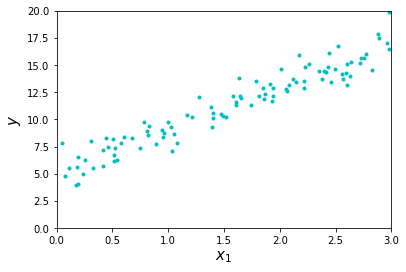
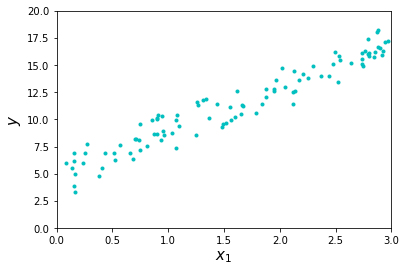
normal eq imp

diff --git a/_posts/2019-01-18-convergence.md b/_posts/2019-01-18-convergence.md
@@ -21,7 +21,7 @@ $$\begin{equation}
 Y = f(X) + \epsilon
 \end{equation}$$
 
-In this equation, $$f$$ is our model and $$\epsilon$$ represents the variation of $$y$$ not captured by our model. Linear models associate a linear shape for $$f$$. Here is the general form of a linear model:
+In this equation, $$f$$ is our model and $$\epsilon$$ represents the variation of $$y$$ not captured by our model. Linear models are named as such because they associate a linear shape for $$f$$. Here is the general form of a linear model:
 
 $$\begin{equation}
 f(X) = \beta_{0} + \beta_{1}X_{1} + \beta_{2}X_{2} +...+\beta_{n}X_{n}
@@ -91,19 +91,59 @@ Now that we have a conceptual understanding of the linear regression algorithm, 
 import numpy as np
 import matplotlib.pyplot as plt
 
-X = 3*np.random.rand(100,1)
-y = 5 + 4*X + np.random.randn(100,1)
+np.random.seed(11)
 
-plt.plot(X,y,"c.")
+X1 = 3*np.random.rand(100,1)
+y = 5 + 4*X1 + np.random.randn(100,1)
+
+plt.plot(X1,y,"c.")
 plt.xlabel("$x_1$",fontsize=15)
 plt.ylabel("$y$",fontsize=15)
 plt.axis([0,3,0,20])
 plt.show()
 ```
 
-As expected, the data reflects a positive association of $$y$$ with $$x_{1}$$. $$x_{1}$$ is an array of 100 data points drawn from the uniform distribution ([0,1)) and $$y$$ is also an array of 100 data points dependent on $$x_{1}$$ plus some noise. The noise is randomly generated from the normal distribution, consistent with model assumptions for errors (mean = 0 and unit variance).
+As expected, the data reflects a positive association of $$x_{1}$$ with $$y$$. $$x_{1}$$ is an array of 100 data points drawn from the uniform distribution ([0,1)) and $$y$$ is also an array of 100 data points dependent on $$x_{1}$$ plus some noise. The noise is randomly generated from the normal distribution, consistent with model assumptions for errors (mean = 0 and unit variance).
 
-Now let's optimize for our parameters. We'll account for our model's intercept by appending a column of one's to $$x_{1}$$ data. In this way, the intercept is implemented the same as any feature but with an input value of one for every instance.
+Now let's optimize for our parameters. We'll account for our model's intercept by appending a column of one's to the $$x_{1}$$ data. In this way, the intercept is implemented the same as any feature but with an input value of one for every instance. Next, we can implement the direct solution with one line of code and numpy! Here are the results:
+
+```python
+X0_X1 = np.c_[np.ones((100,1)),X1]
+theta = np.linalg.inv(X0_X1.T.dot(X0_X1)).dot(X0_X1.T).dot(y)
+```
+
+![png](/images/convergence/theta.png?raw=True)
+
+We can visualize our linear model as a function of $$x_{1}$$ by connecting the prediction results from its fringe values (constant slope). In this case, our data ranges from [0,3] so we'll compute predictions for these inputs and plot the fitness of our model.
+
+```python
+X_fringe = np.array([[0],[3]])
+X0_X1_fringe = np.c_[np.ones((2,1)),X_fringe]
+y_fringe = X0_X1_fringe.dot(theta)
+
+plt.plot(X_fringe,y_fringe,"b-")
+plt.plot(X1,y,"c.")
+plt.xlabel("$x_1$",fontsize=15)
+plt.ylabel("$y$",fontsize=15)
+plt.axis([0,3,0,20])
+plt.show()
+```
+
+![png](/images/convergence/fitness.png?raw=True)
+
+Looking good! Finally, let's check our implementation vs a packaged version from Scikit-Learn. Our model parameters should be the same as theirs if we didn't make any mistakes.
+
+```python
+from sklearn.linear_model import LinearRegression
+
+lr = LinearRegression()
+lr.fit(X1,y)
+
+print("sklearn B0: ", lr.intercept_)
+print("sklearn B1: ", lr.coef_[0])
+```
+
+![png](/images/convergence/sklearn.png?raw=True)
 
 ### Gradient Descent
 
